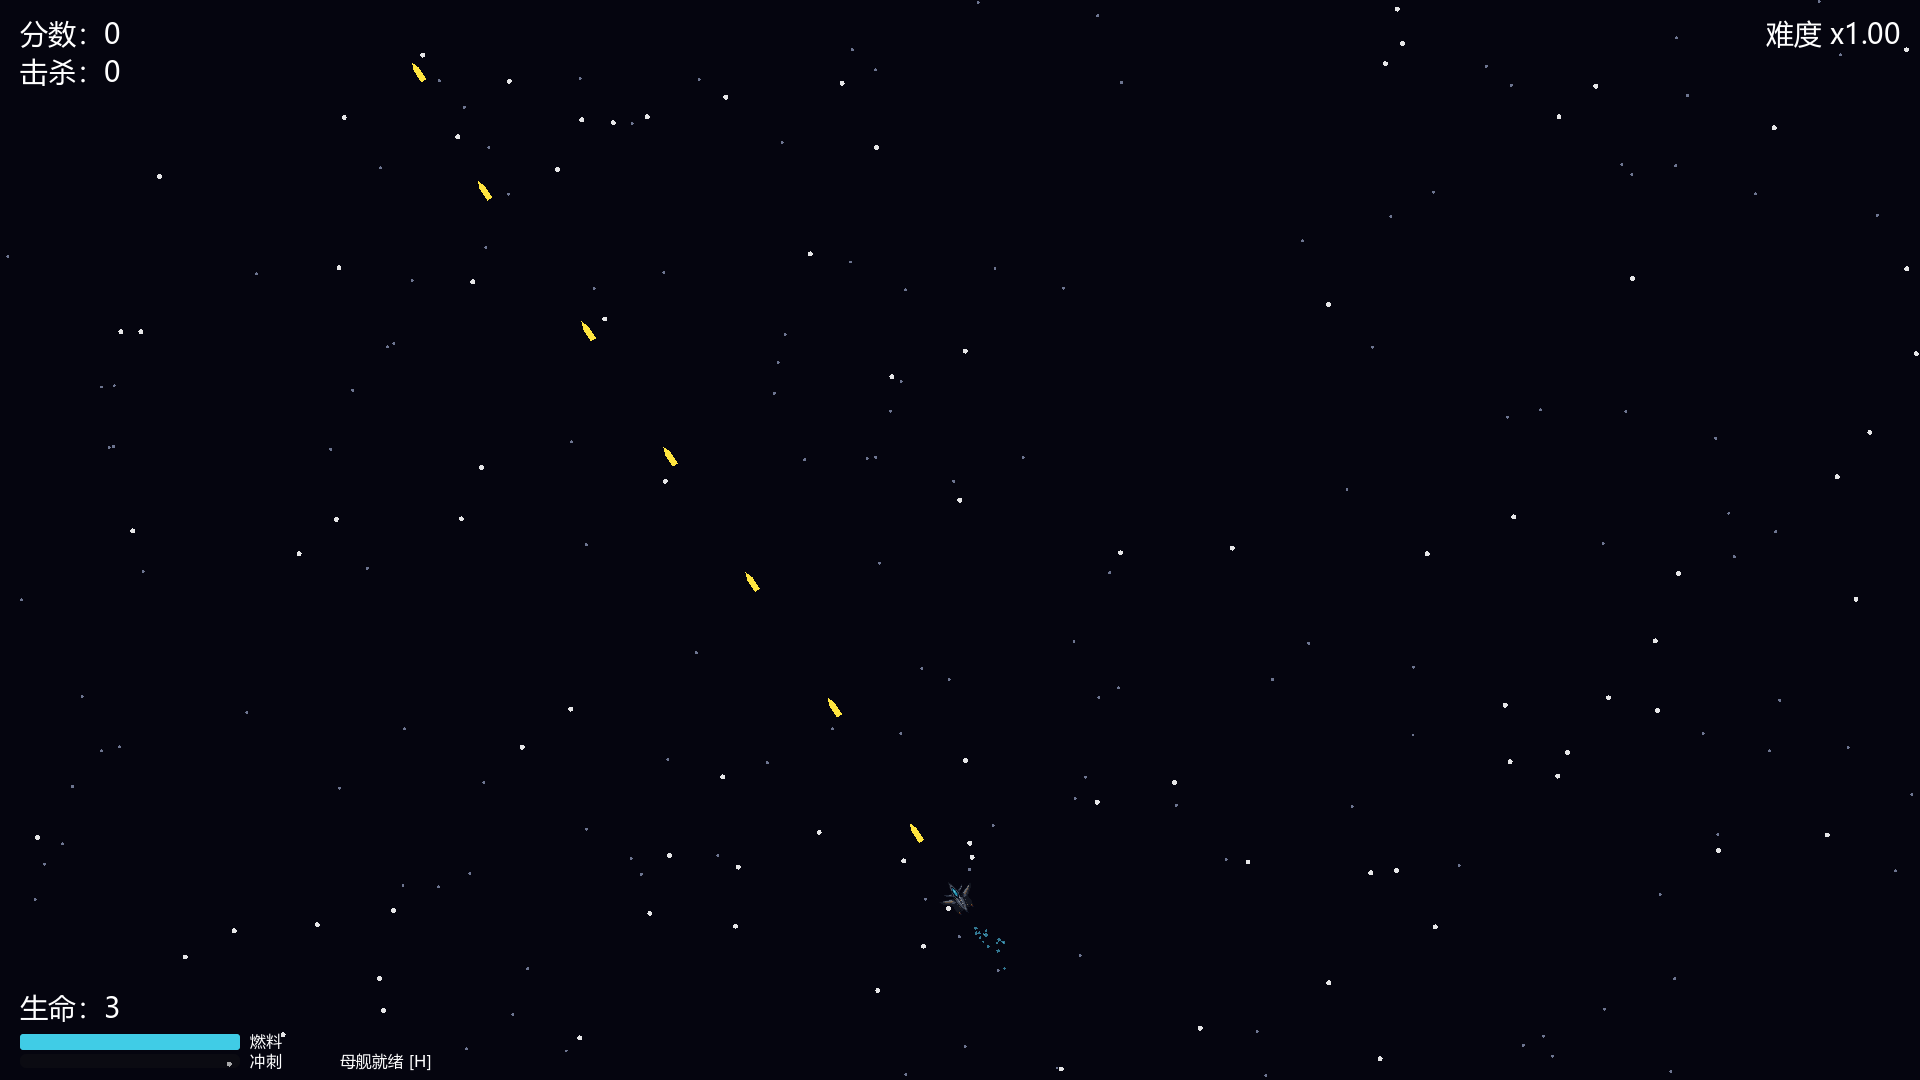
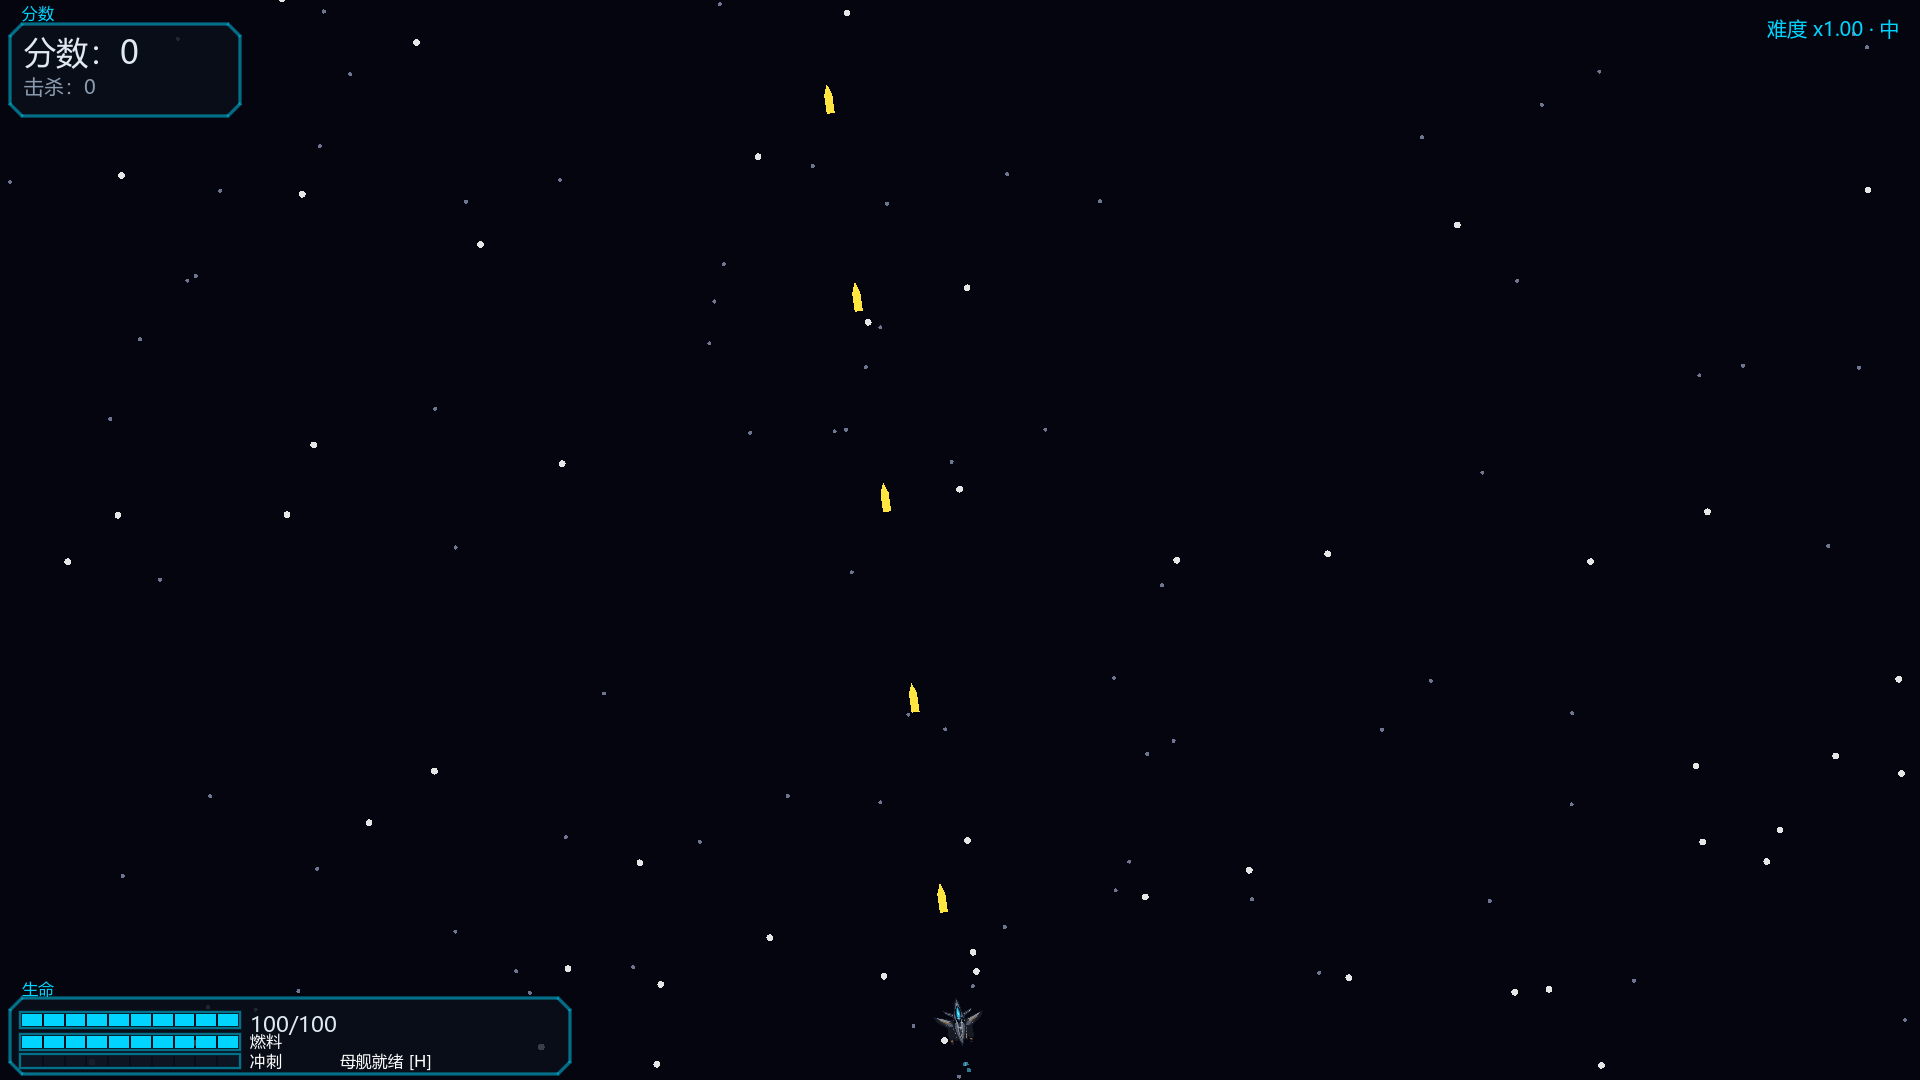
docs: README 同步 3.9（100 HP/母舰/446 断言/新截图）；完善启动脚本
- README 中英双语：100 HP 玩法循环、母舰自动对接+导弹+驾驶、
  测试清单补 hit_logic_test 并更新计数（369→446）、路线图补 3.7-3.9、
  gameplay/mothership 截图更新为新 HUD 与新对接流程
- run.sh/run.command：引擎探测（PATH→~/.local/bin→/Applications）+
  版本检查（<4.6 警告）+ 参数透传与更清晰的双语提示
- 新增 run.bat：Windows 双击启动（PATH/常见位置/下载目录探测）

diff --git a/README.en.md b/README.en.md
@@ -8,7 +8,7 @@
 
 [![Godot](https://img.shields.io/badge/godot-4.6-478cbf?logo=godot-engine&logoColor=white)](https://godotengine.org/)
 [![GDScript](https://img.shields.io/badge/GDScript-100%25-478cbf)](https://docs.godotengine.org/en/stable/tutorials/scripting/gdscript/)
-[![Tests](https://img.shields.io/badge/tests-369%20passed-brightgreen)](#verification)
+[![Tests](https://img.shields.io/badge/tests-446%20passed-brightgreen)](#verification)
 [![Platform](https://img.shields.io/badge/platform-macOS%20%7C%20Windows%20%7C%20Linux-lightgrey)](#getting-started)
 
 <img src="./docs/screenshots/gameplay.png" alt="InfiAir gameplay" width="760">
@@ -35,7 +35,7 @@
 - **A complete sortie loop**: fight waves → pick 1-of-3 buffs at score milestones → rotating bosses → return to base for a mid-run refit → sortie again. Death is the only end.
 - **16 stackable buffs**: damage, fire rate, spread, piercing, explosive, lifesteal, armor, evasion, phase dash, slow field, laser beam and more — drafted at score milestones.
 - **3 rotating bosses + enrage**: heavy / skirmisher / mothership archetypes; they enrage below 30% HP, and flee the battle if you can't kill them within 50 seconds.
-- **Mothership docking**: charge-up summon, tractor-beam docking, a 20-second stay with magazine-fed sweep fire, early undock for cooldown refund — a tactical trade-off between resupply and fire support.
+- **Mothership docking**: charge-up summon with automatic point-snap docking — twin turrets sweeping an upward 80° fan, homing-free missile volleys (up to 5 targets), and direct WASD control of the mothership itself while docked. A low-ammo warning precedes a forced undock, or hold H to undock early for a cooldown refund.
 - **Mid-run base refit**: homecoming does NOT end the run. Four base modules — hangar, weapon hardpoints (mutually exclusive talent routes), repair & resupply (RP economy), and mission planning — then you return to the same battle.
 - **Fully procedural assets**: all ship sprites are procedurally generated (inherited from the Python original); SFX and BGM are synthesized by `scripts/tools/generate_audio.py`. Zero external asset dependencies.
 
@@ -55,7 +55,7 @@
 | Shift (hold) | Boost (~1.8x speed, drains fuel) |
 | Ctrl (hold) | Precision movement (speed ×0.35) |
 | Space | Phase dash (requires buff; invulnerable, costs 25% fuel) |
-| H (hold 3s) | Charge-summon the mothership (hold H 2s during stay for early undock) |
+| H (hold 3s) | Charge-summon the mothership (WASD pilots the ship while docked; hold H 2s for early undock) |
 | B (hold 1.5s) | Homecoming — mid-run base refit |
 | K (hold 3s) | Abandon the sortie |
 | ESC | Pause (the pause menu holds the only save entry) |
@@ -75,11 +75,12 @@ godot --path .          # run directly, or open the project in the editor and pr
 
 ## 🧭 Game Loop
 
-- 3 lives, 1.5s invulnerability on hit; **pure score-based — no item drops**.
-- 4 enemy classes × 8 movement patterns, unlocked progressively by score; 3 elite variants; enemy bullets come in single / spread / laser types.
-- Every 500 points pauses the game for a 1-of-3 buff draft; bosses spawn every 1500 points or 90s, granting +500 points and raising the difficulty multiplier (`1 + (2^min(kills,10) − 1) × 0.25`, capped at 8x).
+- Start with 100 HP: taking a hit grants 1.5s of invulnerability and clears enemy bullets within 250px; HP slowly regenerates after a few seconds out of combat (rate varies by difficulty), and can be fully restored by base repairs (2 RP) or mothership resupply; **pure score-based — no item drops**.
+- 4 enemy classes × 8 movement patterns, unlocked progressively by score; 3 elite variants; enemy bullets come in single / spread / laser types (12/10/20 damage, plus 20 for body collisions).
+- Milestone thresholds (starting at 3000, scaling up per cycle) pause the game for a 1-of-3 buff draft; bosses spawn every 1500 points or 90s, granting +500 points and raising the difficulty multiplier (`1 + (2^min(kills,10) − 1) × 0.25`, capped at 8x).
 - RP (requisition points) come from boss kills (+5) and base missions (+3), spent on repairs and fuel at the base.
 - Save anytime via the pause menu; continue from the title panel on next launch. Death deletes the save.
+- The start panel includes a tutorial entry: a 6-stage tutorial (movement & aim / boost & dash / combat / mothership docking / homecoming & base / boss enrage); Esc quits anytime, and the button shows "Tutorial ✓" once completed.
 
 ## 🏗 Architecture
 
@@ -87,9 +88,9 @@ godot --path .          # run directly, or open the project in the editor and pr
 main.tscn (run orchestration)
  ├─ Player (movement / aim assist / auto-fire / fuel / phase dash / laser weapon)
  ├─ Spawner (7 enemy-class config tables + score-gated unlocks + boss rotation)
- ├─ Mothership (7-state machine: descend → hover → dock → stay → release → depart)
+ ├─ Mothership (auto-dock state machine: summon → dock → stay (piloting + sweep + missiles) → release → depart)
  ├─ HUD / BuffSelect / BaseConsole / GameOver / Pause / StartPanel
- └─ GameState (autoload: score / buffs / RP / missions / routes / saves / SFX pool / shake)
+ └─ GameState (autoload: 100-HP health / score / buffs / RP / missions / routes / saves / SFX pool / shake)
 ```
 
 - Collision layers: `1=player 2=player_bullet 3=enemy 4=enemy_bullet`; bullets resolve damage on their side.
@@ -102,20 +103,21 @@ main.tscn (run orchestration)
 ```bash
 godot --headless --import --path .          # assets & script parsing
 godot --headless --path . --quit-after 300  # runtime smoke
-godot --headless --path . res://test/smoke_test.tscn        # main flow — 85 assertions
+godot --headless --path . res://test/smoke_test.tscn        # main flow — 95 assertions
 godot --headless --path . res://test/base_system_test.tscn  # save/RP/missions/routes — 46
 godot --headless --path . res://test/enemy_combat_test.tscn # enemies & bosses — 31
 godot --headless --path . res://test/buff33_test.tscn       # buffs/mothership/give-up — 29
 godot --headless --path . res://test/difficulty_test.tscn   # difficulty/milestones/settings — 52
-godot --headless --path . res://test/boss_enrage_test.tscn  # boss enrage — 24
-godot --headless --path . res://test/tutorial_test.tscn     # tutorial — 22
-godot --headless --path . res://test/balance_test.tscn      # balance config — 18
-godot --headless --path . res://test/keybind_test.tscn      # key rebinding — 17
-godot --headless --path . res://test/i18n_test.tscn         # i18n zh/en — 10
+godot --headless --path . res://test/boss_enrage_test.tscn  # boss enrage — 23
+godot --headless --path . res://test/tutorial_test.tscn     # tutorial — 19
+godot --headless --path . res://test/balance_test.tscn      # balance config — 25
+godot --headless --path . res://test/keybind_test.tscn      # key rebinding — 15
+godot --headless --path . res://test/i18n_test.tscn         # i18n zh/en — 9
 godot --headless --path . res://test/view_zoom_test.tscn    # view zoom — 43
+godot --headless --path . res://test/hit_logic_test.tscn    # hit & collision parity — 59
 ```
 
-369 assertions, all passing.
+446 assertions, all passing.
 
 ## 🗺 Roadmap
 
@@ -128,6 +130,9 @@ godot --headless --path . res://test/view_zoom_test.tscn    # view zoom — 43
 - [x] Difficulty selection (easy / normal / hard) & full boss enrage — iteration 3.4
 - [x] Performance optimization (bullet/explosion pooling, group-query caching, HUD throttling) — iteration 3.4
 - [x] Tutorial (6 stages, via the start panel; completion recorded in profile) — iteration 3.5
+- [x] Three-level view zoom (small / medium / large) — iteration 3.7
+- [x] Hit & collision parity pass (r7 hitbox / boss body collision / enrage HP lock / per-type bullet damage) — iteration 3.8
+- [x] 100-HP damage model & full Appendix-A parity (hit-rule chain / mothership auto-dock + missiles + piloting / combat number review) — iteration 3.9
 - [ ] Release builds (deferred)
 
 The item-by-item parity checklist against the original lives in [docs/PORTING_PARITY.md](./docs/PORTING_PARITY.md); task guidance in [docs/TASK_REPORT.md](./docs/TASK_REPORT.md).
